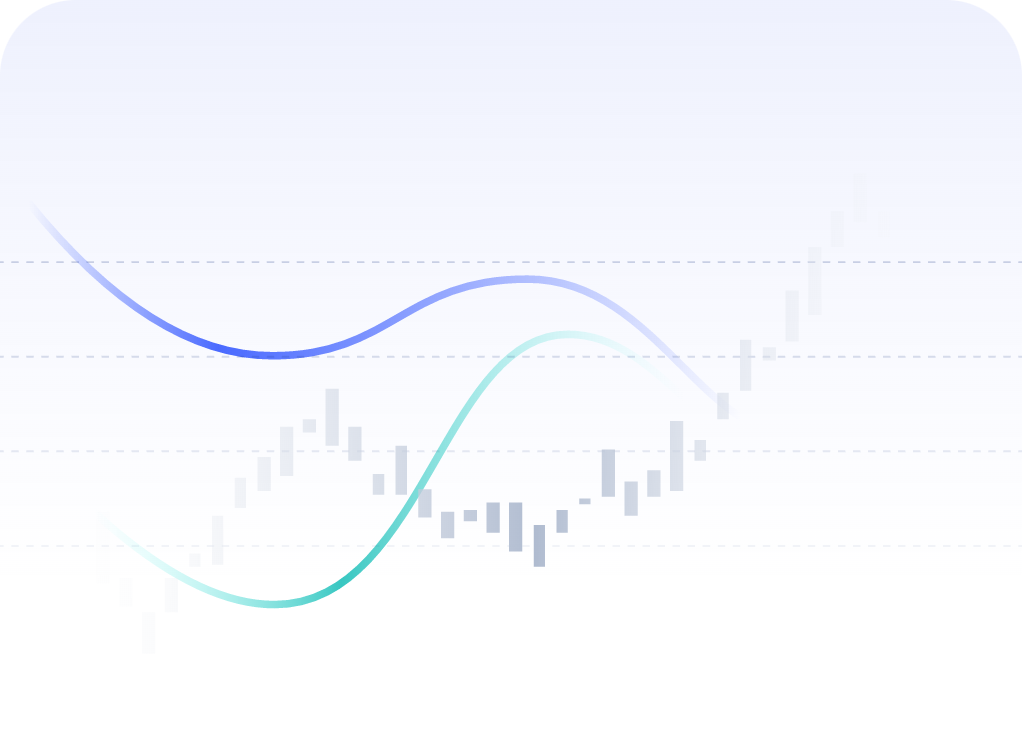
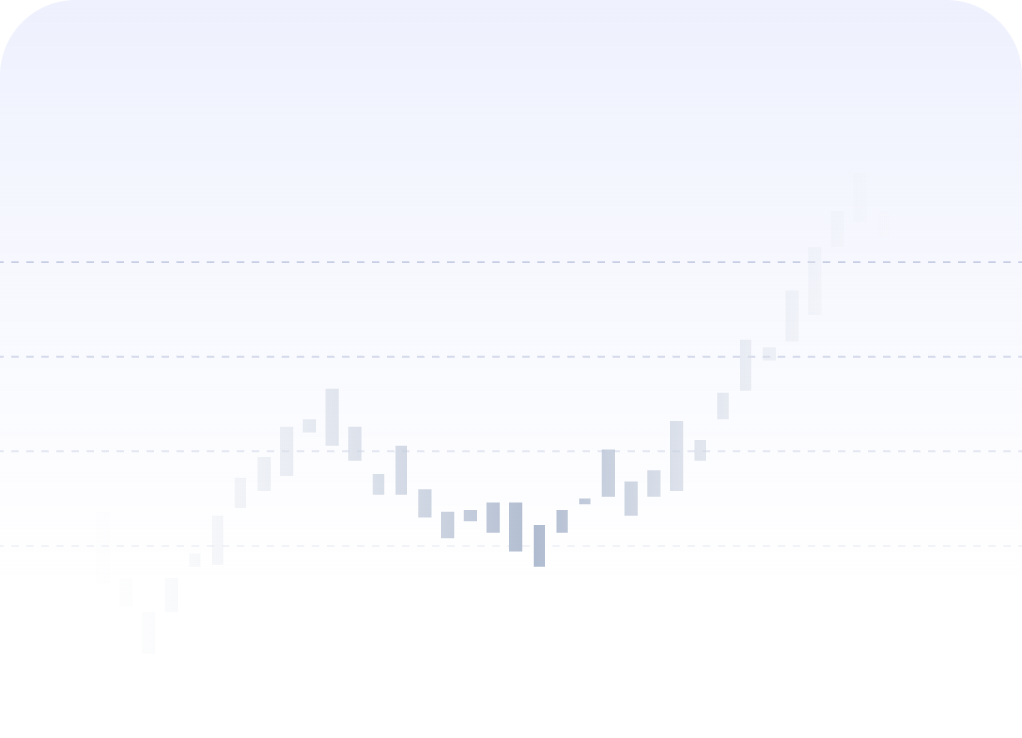
feat: 添加首页财富管理模块动画

diff --git a/pages/zh-cn/index.vue b/pages/zh-cn/index.vue
@@ -228,10 +228,38 @@
           <p class="desc" data-aos="fade-up">投资组合实现帐户资产稳健增值，灵活的存款产品，帮助您实现资产保值。</p>
         </div>
         <div class="fund-right background">
-          <div class="fund-img">
+          <div class="fund-line-bg">
+            <img
+              data-aos="aos-animate-padding"
+              src="@/assets/image/home/fund-line-bg.png"
+              alt="">
+            <div class="fund-img-dashed blue">
+              <img
+                data-aos="aos-animate-padding"
+                data-aos-delay="200"
+                src="@/assets/image/home/fund-img-dashed-01.png"
+                alt="">
+            </div>
+            <div class="fund-img-dashed green">
+              <img
+                data-aos="aos-animate-padding"
+                data-aos-delay="200"
+                src="@/assets/image/home/fund-img-dashed-02.png"
+                alt="">
+            </div>
+          </div>
+          <div
+            class="fund-img top-left"
+            data-aos="fade"
+            data-aos-offset="400"
+            data-aos-delay="400">
             <img src="@/assets/image/home/fund-img-01.png" alt="">
           </div>
-          <div class="fund-img">
+          <div
+            class="fund-img top-right"
+            data-aos="fade"
+            data-aos-offset="400"
+            data-aos-delay="400">
             <img src="@/assets/image/home/fund-img-02.png" alt="">
           </div>
         </div>
@@ -848,17 +876,71 @@ onMounted(() => {
         width: 510px;
         height: 368px;
         background-image: url('@/assets/image/home/fund-bg.png');
+        .fund-line-bg {
+          position: relative;
+          width: 490px;
+          height: 234px;
+          margin-top: 68px;
+          margin-left: 11px;
+          > img {
+            &[data-aos="aos-animate-padding"] {
+              padding-right: 490px;
+              object-fit: cover;
+              object-position: left;
+              &.aos-animate {
+                padding-right: 0;
+              }
+            }
+          }
+          .fund-img-dashed {
+            position: absolute;
+            &.blue {
+              top: 42px;
+              left: 88px;
+              width: 48px;
+              height: 78px;
+              > img {
+                &[data-aos="aos-animate-padding"] {
+                  padding-top: 78px;
+                  object-fit: cover;
+                  object-position: bottom;
+                  &.aos-animate {
+                    padding-top: 0;
+                  }
+                }
+              }
+            }
+            &.green {
+              top: 42px;
+              right: 86px;
+              width: 190px;
+              height: 94px;
+              > img {
+                &[data-aos="aos-animate-padding"] {
+                  padding-top: 94px;
+                  object-fit: cover;
+                  object-position: bottom;
+                  &.aos-animate {
+                    padding-top: 0;
+                  }
+                }
+              }
+            }
+          }
+        }
         .fund-img {
           position: absolute;
-          width: 356px;
-          height: 286px;
-          &:nth-child(1) {
-            top: -60px;
-            left: -75px;
+          width: 284px;
+          height: 142px;
+          box-shadow: 0px 4px 20px -6px rgba(0,0,0,0.15);
+          border-radius: 20px;
+          &.top-left {
+            top: -34px;
+            left: -43px;
           }
-          &:nth-child(2) {
-            top: -60px;
-            right: -75px;
+          &.top-right {
+            top: -34px;
+            right: -43px;
           }
         }
       }
